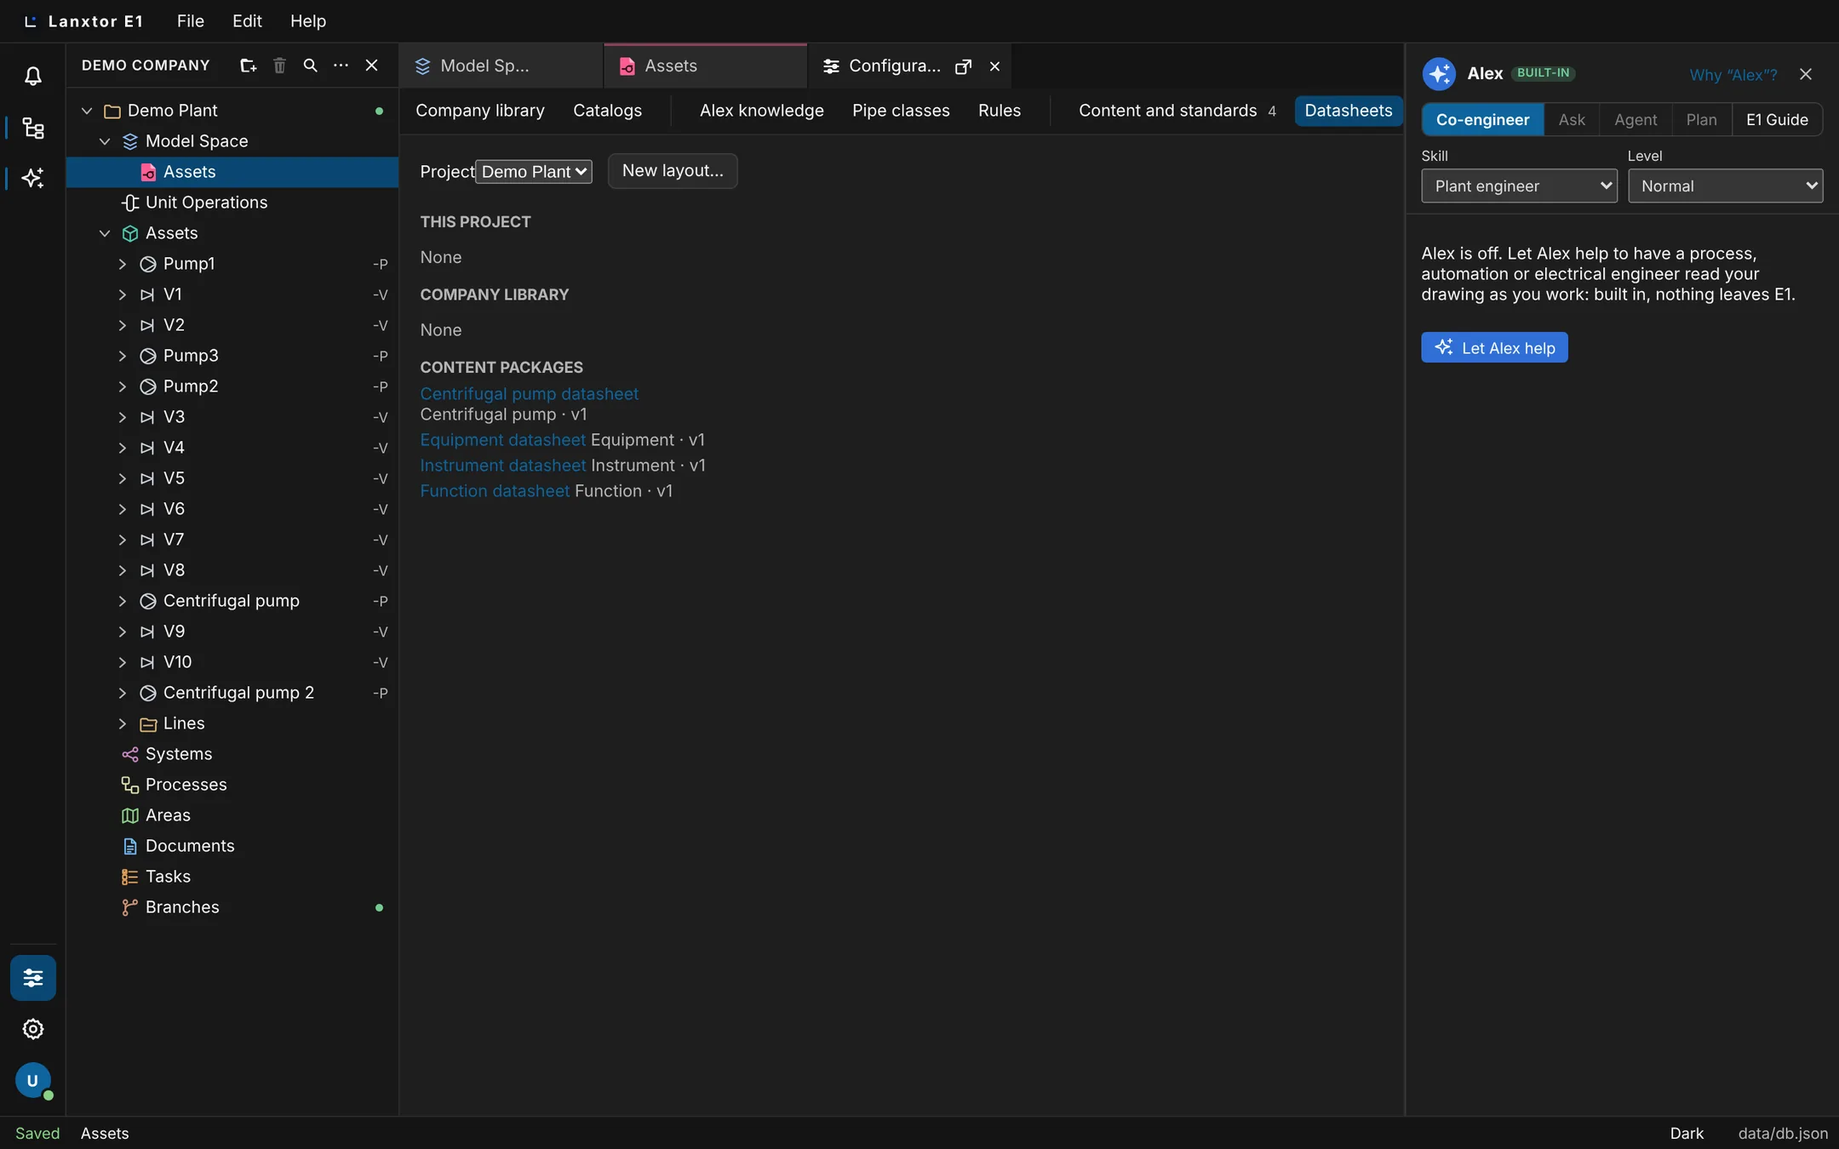
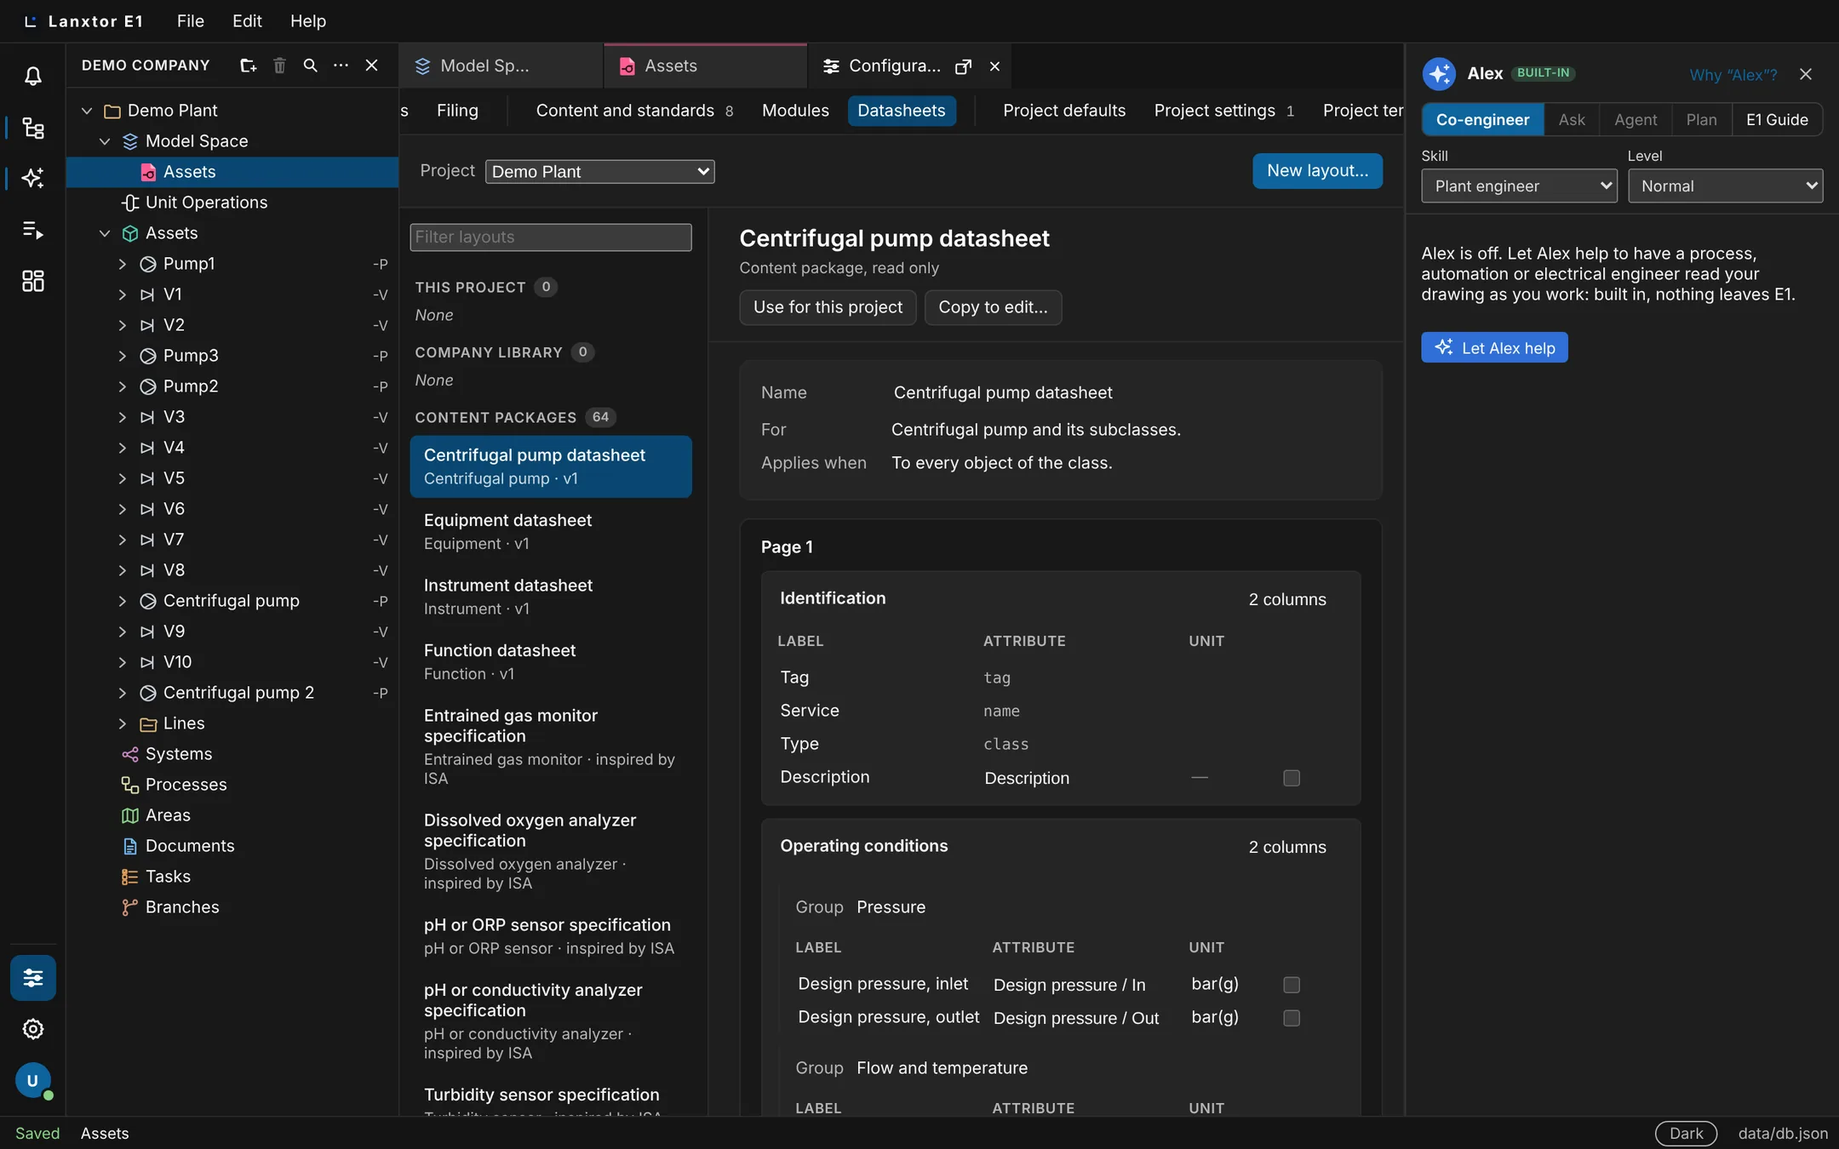
Guides: the redesigned datasheet designer
Claude-Session: https://claude.ai/code/session_011w3qqjSjUdMKk42VAFnWJE

diff --git a/guide-documents.html b/guide-documents.html
@@ -815,11 +815,11 @@
   <div class="g-table-wrap"><table class="g-steps">
     <thead><tr><th>#</th><th>Action</th><th>Expected result</th></tr></thead>
     <tbody>
-      <tr><td>1</td><td>Click <span class="ui">Configuration</span> in the left rail, then <span class="ui">Datasheets</span>.</td><td>Datasheet layouts shows <span class="ui">Project</span>, <span class="ui">New layout…</span>, and the layouts under This project, Company library and Content packages, each with its class and version.</td></tr>
+      <tr><td>1</td><td>Click <span class="ui">Configuration</span> in the left rail, then <span class="ui">Datasheets</span>.</td><td>Datasheet layouts shows <span class="ui">Project</span> and <span class="ui">New layout…</span> at the top, and on the left <span class="ui">Filter layouts</span> and the layouts under This project, Company library and Content packages, each with its count. A layout shows its class and version, and <span class="ui">Draft</span> or <span class="ui">Used here</span> when that applies.</td></tr>
       <tr><td>2</td><td>Click <span class="ui">Centrifugal pump datasheet</span>.</td><td>It reads “Content package, read only”: there is no <span class="ui">Publish</span>, and <span class="ui">Copy to edit…</span> is shown.</td></tr>
-      <tr><td>3</td><td>Click <span class="ui">New layout…</span>, search <code>Centrifugal pump</code>, set Class to <span class="ui">Centrifugal pump</span>, type <code>plant1.pump</code> as the layout key with In <span class="ui">This project</span>, and click <span class="ui">Create from the class</span>.</td><td>The new layout opens: “This project · not published”. A key in use is refused: “That key is taken.”.</td></tr>
+      <tr><td>3</td><td>Click <span class="ui">New layout…</span>. In the dialog, search <code>Centrifugal pump</code>, set Class to <span class="ui">Centrifugal pump</span>, keep Kept in <span class="ui">This project</span>, type <code>plant1.pump</code> as the Key, and click <span class="ui">Create from the class</span>.</td><td>The new layout opens on the right: “This project · not published”. A key in use is refused: “That key is taken.”. <span class="ui">Cancel</span> or <kbd>Esc</kbd> closes the dialog.</td></tr>
       <tr><td>4</td><td>Set <span class="ui">Name</span> to <code>Plant 1 pump datasheet</code>.</td><td>The name shows “For Centrifugal pump and its subclasses.”.</td></tr>
-      <tr><td>5</td><td>In section Identification, choose <span class="ui">Design pressure / In</span> in “Add a field to Identification” and type <code>psi</code> in its unit.</td><td>The field is added with unit psi.</td></tr>
+      <tr><td>5</td><td>In section Identification, choose <span class="ui">Design pressure / In</span> in <span class="ui">Add field…</span> and type <code>psi</code> in its Unit.</td><td>The field is added with unit psi.</td></tr>
       <tr><td>6</td><td>Click <span class="ui">Undo</span>.</td><td>The unit is empty again.</td></tr>
       <tr><td>7</td><td>Click <span class="ui">Save draft</span>.</td><td>“Draft saved.”.</td></tr>
       <tr><td>8</td><td>Click <span class="ui">Publish</span>.</td><td>“Published as version 1.”.</td></tr>
@@ -828,8 +828,8 @@
     </tbody>
   </table></div>
   <h3>What you can change</h3>
-  <p>Pages (<span class="ui">Add page</span>, <span class="ui">Remove page</span>), sections (<span class="ui">Add section</span>, <span class="ui">Columns</span> 1–3, <span class="ui">Up</span>, <span class="ui">Down</span>, <span class="ui">Remove section</span>), groups (<span class="ui">Add group</span>, <span class="ui">Add field to group</span>), tables (<span class="ui">Add table</span>, <span class="ui">Add column</span>), and per field its label, unit, <span class="ui">read only</span> and <span class="ui">Remove</span>. Problems with fields the class lacks are listed under “Binding problems”. <span class="ui">Submit for review</span> says “Submitted for review.”; <span class="ui">Withdraw vN</span> asks “Withdraw version N? Projects pinned to it still read it.” and then says “Version N withdrawn.”; <span class="ui">Use for this project</span> says “This project uses it for the class.”.</p>
-  <figure class="g-shot" style="max-width:1080px"><img src="assets/img/guides/config-datasheets.webp" alt="Configuration → Datasheets: Project Demo Plant, New layout…, This project None, Company library None, and the content package layouts Centrifugal pump, Equipment, Instrument and Function datasheet, each v1." width="2160" height="1350" loading="lazy"><figcaption><span class="ui">Configuration</span> → <span class="ui">Datasheets</span>.</figcaption></figure>
+  <p>Pages (<span class="ui">Add page</span>, <span class="ui">Remove page</span>), sections (<span class="ui">Add section</span>, <span class="ui">Columns</span> 1–3, <span class="ui">Up</span>, <span class="ui">Down</span>, <span class="ui">Remove section</span>), groups (<span class="ui">Add group</span>, <span class="ui">Add field…</span> in the group, <span class="ui">Remove group</span>), tables (<span class="ui">Add table</span>, <span class="ui">Add column</span>), and each field as a row of Label, Attribute, Unit, read only and × to remove it. Problems with fields the class lacks are listed under “Binding problems”. <span class="ui">Submit for review</span> says “Submitted for review.”; <span class="ui">Withdraw vN</span> asks “Withdraw version N? Projects pinned to it still read it.” and then says “Version N withdrawn.”; <span class="ui">Use for this project</span> says “This project uses it for the class.”.</p>
+  <figure class="g-shot" style="max-width:1080px"><img src="assets/img/guides/config-datasheets.webp" alt="Configuration → Datasheets: Project Demo Plant and New layout… at the top; on the left Filter layouts, This project None, Company library None and the content package layouts; on the right Centrifugal pump datasheet, Content package, read only, with its sections and fields." width="2160" height="1350" loading="lazy"><figcaption><span class="ui">Configuration</span> → <span class="ui">Datasheets</span>.</figcaption></figure>
   <p class="g-warn"><kbd>Ctrl+Z</kbd> (<kbd>⌘Z</kbd>) does not undo layout edits: use the designer's <span class="ui">Undo</span> button. Outside a text field, <kbd>Ctrl+Z</kbd> undoes your last saved change to the project instead.</p>
   <p class="g-warn">A layout has no logo or other fixed elements yet. For layouts of components, conditions and comparing a copy with its source, see <a href="#doc-spec-datasheet-designer">Design a specification datasheet</a>.</p>
   <p class="g-related">Related: <a href="guide-documents.html#doc-datasheet">Open an object's datasheet</a>, <a href="guide-documents.html#doc-datasheet-pdf">Datasheet PDF</a>, <a href="guide-library.html#lib-configuration">The Configuration place</a>, <a href="guide-library.html#lib-company-library">The company library</a>, <a href="guide-documents.html#doc-spec-datasheet-designer">Design a specification datasheet</a></p>

diff --git a/tools/guides/src/documents.html b/tools/guides/src/documents.html
@@ -725,11 +725,11 @@
   <div class="g-table-wrap"><table class="g-steps">
     <thead><tr><th>#</th><th>Action</th><th>Expected result</th></tr></thead>
     <tbody>
-      <tr><td>1</td><td>Click <span class="ui">Configuration</span> in the left rail, then <span class="ui">Datasheets</span>.</td><td>Datasheet layouts shows <span class="ui">Project</span>, <span class="ui">New layout…</span>, and the layouts under This project, Company library and Content packages, each with its class and version.</td></tr>
+      <tr><td>1</td><td>Click <span class="ui">Configuration</span> in the left rail, then <span class="ui">Datasheets</span>.</td><td>Datasheet layouts shows <span class="ui">Project</span> and <span class="ui">New layout…</span> at the top, and on the left <span class="ui">Filter layouts</span> and the layouts under This project, Company library and Content packages, each with its count. A layout shows its class and version, and <span class="ui">Draft</span> or <span class="ui">Used here</span> when that applies.</td></tr>
       <tr><td>2</td><td>Click <span class="ui">Centrifugal pump datasheet</span>.</td><td>It reads “Content package, read only”: there is no <span class="ui">Publish</span>, and <span class="ui">Copy to edit…</span> is shown.</td></tr>
-      <tr><td>3</td><td>Click <span class="ui">New layout…</span>, search <code>Centrifugal pump</code>, set Class to <span class="ui">Centrifugal pump</span>, type <code>plant1.pump</code> as the layout key with In <span class="ui">This project</span>, and click <span class="ui">Create from the class</span>.</td><td>The new layout opens: “This project · not published”. A key in use is refused: “That key is taken.”.</td></tr>
+      <tr><td>3</td><td>Click <span class="ui">New layout…</span>. In the dialog, search <code>Centrifugal pump</code>, set Class to <span class="ui">Centrifugal pump</span>, keep Kept in <span class="ui">This project</span>, type <code>plant1.pump</code> as the Key, and click <span class="ui">Create from the class</span>.</td><td>The new layout opens on the right: “This project · not published”. A key in use is refused: “That key is taken.”. <span class="ui">Cancel</span> or <kbd>Esc</kbd> closes the dialog.</td></tr>
       <tr><td>4</td><td>Set <span class="ui">Name</span> to <code>Plant 1 pump datasheet</code>.</td><td>The name shows “For Centrifugal pump and its subclasses.”.</td></tr>
-      <tr><td>5</td><td>In section Identification, choose <span class="ui">Design pressure / In</span> in “Add a field to Identification” and type <code>psi</code> in its unit.</td><td>The field is added with unit psi.</td></tr>
+      <tr><td>5</td><td>In section Identification, choose <span class="ui">Design pressure / In</span> in <span class="ui">Add field…</span> and type <code>psi</code> in its Unit.</td><td>The field is added with unit psi.</td></tr>
       <tr><td>6</td><td>Click <span class="ui">Undo</span>.</td><td>The unit is empty again.</td></tr>
       <tr><td>7</td><td>Click <span class="ui">Save draft</span>.</td><td>“Draft saved.”.</td></tr>
       <tr><td>8</td><td>Click <span class="ui">Publish</span>.</td><td>“Published as version 1.”.</td></tr>
@@ -738,8 +738,8 @@
     </tbody>
   </table></div>
   <h3>What you can change</h3>
-  <p>Pages (<span class="ui">Add page</span>, <span class="ui">Remove page</span>), sections (<span class="ui">Add section</span>, <span class="ui">Columns</span> 1–3, <span class="ui">Up</span>, <span class="ui">Down</span>, <span class="ui">Remove section</span>), groups (<span class="ui">Add group</span>, <span class="ui">Add field to group</span>), tables (<span class="ui">Add table</span>, <span class="ui">Add column</span>), and per field its label, unit, <span class="ui">read only</span> and <span class="ui">Remove</span>. Problems with fields the class lacks are listed under “Binding problems”. <span class="ui">Submit for review</span> says “Submitted for review.”; <span class="ui">Withdraw vN</span> asks “Withdraw version N? Projects pinned to it still read it.” and then says “Version N withdrawn.”; <span class="ui">Use for this project</span> says “This project uses it for the class.”.</p>
-  <figure class="g-shot"><img src="assets/img/guides/config-datasheets.webp" alt="Configuration → Datasheets: Project Demo Plant, New layout…, This project None, Company library None, and the content package layouts Centrifugal pump, Equipment, Instrument and Function datasheet, each v1." width="2160" height="1350" loading="lazy"><figcaption><span class="ui">Configuration</span> → <span class="ui">Datasheets</span>.</figcaption></figure>
+  <p>Pages (<span class="ui">Add page</span>, <span class="ui">Remove page</span>), sections (<span class="ui">Add section</span>, <span class="ui">Columns</span> 1–3, <span class="ui">Up</span>, <span class="ui">Down</span>, <span class="ui">Remove section</span>), groups (<span class="ui">Add group</span>, <span class="ui">Add field…</span> in the group, <span class="ui">Remove group</span>), tables (<span class="ui">Add table</span>, <span class="ui">Add column</span>), and each field as a row of Label, Attribute, Unit, read only and × to remove it. Problems with fields the class lacks are listed under “Binding problems”. <span class="ui">Submit for review</span> says “Submitted for review.”; <span class="ui">Withdraw vN</span> asks “Withdraw version N? Projects pinned to it still read it.” and then says “Version N withdrawn.”; <span class="ui">Use for this project</span> says “This project uses it for the class.”.</p>
+  <figure class="g-shot"><img src="assets/img/guides/config-datasheets.webp" alt="Configuration → Datasheets: Project Demo Plant and New layout… at the top; on the left Filter layouts, This project None, Company library None and the content package layouts; on the right Centrifugal pump datasheet, Content package, read only, with its sections and fields." width="2160" height="1350" loading="lazy"><figcaption><span class="ui">Configuration</span> → <span class="ui">Datasheets</span>.</figcaption></figure>
   <p class="g-warn"><kbd>Ctrl+Z</kbd> (<kbd>⌘Z</kbd>) does not undo layout edits: use the designer's <span class="ui">Undo</span> button. Outside a text field, <kbd>Ctrl+Z</kbd> undoes your last saved change to the project instead.</p>
   <p class="g-warn">A layout has no logo or other fixed elements yet. For layouts of components, conditions and comparing a copy with its source, see <a href="#doc-spec-datasheet-designer">Design a specification datasheet</a>.</p>
   <p class="g-related">Related: <a href="guide-documents.html#doc-datasheet">Open an object's datasheet</a>, <a href="guide-documents.html#doc-datasheet-pdf">Datasheet PDF</a>, <a href="guide-library.html#lib-configuration">The Configuration place</a>, <a href="guide-library.html#lib-company-library">The company library</a>, <a href="guide-documents.html#doc-spec-datasheet-designer">Design a specification datasheet</a></p>

diff --git a/guide-features.html b/guide-features.html
@@ -328,7 +328,7 @@
             <tr data-status="available" data-cat="library"><td class="g-id">LIB-project-settings</td><td><a href="guide-library.html#lib-project-settings">Project settings: packages, drawing and tag rules</a><br><span class="muted">Set a project&#x27;s content packages, crossing-line style and tag rules, for one or several projects at once.</span></td><td>Configuration, library and catalogs</td><td><span class="g-status available">Available</span></td><td class="g-date">2026-11-02</td><td class="g-date">2026-11-09</td><td>M1.3, M1.8</td><td></td><td>Project settings</td></tr>
             <tr data-status="placeholder" data-cat="library"><td class="g-id">LIB-project-defaults</td><td><a href="guide-library.html#lib-project-defaults">Project defaults</a><br><span class="muted">See the settings a new project starts with (read only for now).</span></td><td>Configuration, library and catalogs</td><td><span class="g-status placeholder">Placeholder</span></td><td class="g-date"></td><td class="g-date"></td><td></td><td></td><td>Project defaults</td></tr>
             <tr data-status="available" data-cat="library"><td class="g-id">LIB-alex-knowledge</td><td><a href="guide-library.html#lib-alex-knowledge">Alex knowledge: your company&#x27;s conventions</a><br><span class="muted">Give Alex your company&#x27;s standards, accept the conventions it proposes, and let it learn usual values from your projects.</span></td><td>Configuration, library and catalogs</td><td><span class="g-status available">Available</span></td><td class="g-date">2026-11-06</td><td class="g-date">2026-11-07</td><td></td><td></td><td>Teaching Alex your conventions</td></tr>
-            <tr data-status="available" data-cat="library"><td class="g-id">LIB-datasheets</td><td><a href="guide-library.html#lib-datasheets">Datasheet layouts</a><br><span class="muted">Find the datasheet layouts of the project, the company and the content packages, and open the designer.</span></td><td>Configuration, library and catalogs</td><td><span class="g-status available">Available</span></td><td class="g-date">2026-11-05</td><td class="g-date"></td><td>07.5</td><td></td><td>Where datasheet layouts live</td></tr>
+            <tr data-status="available" data-cat="library"><td class="g-id">LIB-datasheets</td><td><a href="guide-library.html#lib-datasheets">Datasheet layouts</a><br><span class="muted">Find the datasheet layouts of the project, the company and the content packages, and open the designer.</span></td><td>Configuration, library and catalogs</td><td><span class="g-status available">Available</span></td><td class="g-date">2026-11-05</td><td class="g-date">2026-11-12</td><td>07.5</td><td></td><td>Where datasheet layouts live</td></tr>
             <tr data-status="available" data-cat="library"><td class="g-id">LIB-cloud-ai-model</td><td><a href="guide-library.html#lib-cloud-ai-model">The model for Alex’s AI help</a><br><span class="muted">See which model Alex gets help from in your installation, or whether none is set up or it runs locally.</span></td><td>Configuration, library and catalogs</td><td><span class="g-status available">Available</span></td><td class="g-date"></td><td class="g-date">2026-11-09</td><td></td><td></td><td>The model for Alex’s AI help</td></tr>
             <tr data-status="placeholder" data-cat="library"><td class="g-id">LIB-storage</td><td><a href="guide-library.html#lib-storage">Storage</a><br><span class="muted">Where the installation keeps its data (placeholder).</span></td><td>Configuration, library and catalogs</td><td><span class="g-status placeholder">Placeholder</span></td><td class="g-date"></td><td class="g-date"></td><td></td><td></td><td>Storage</td></tr>
             <tr data-status="available" data-cat="library"><td class="g-id">LIB-rules</td><td><a href="guide-library.html#lib-rules">Rules: calculations, check rules and copy rules</a><br><span class="muted">Calculate an attribute from the object&#x27;s own values, its owners, related objects and the project with a rule: compose, map, calculate with units, choose, aggregate, format; published, its values follow their inputs and are never typed. A check rule gives a finding where its condition does not hold. A copy rule copies a value people may still change. Organization rules are made in the company library and reach a project when its library pin moves; content packages bring their own.</span></td><td>Configuration, library and catalogs</td><td><span class="g-status available">Available</span></td><td class="g-date">2026-11-11</td><td class="g-date">2026-11-11</td><td>12.1, 12.2, 12.3, 12.4, 12.5, 12.6</td><td>P1, P2, P3, P4, P6</td><td>Rules in E1</td></tr>

diff --git a/guide-library.html b/guide-library.html
@@ -615,7 +615,7 @@
   <div class="g-table-wrap"><table class="g-steps">
     <thead><tr><th>#</th><th>Action</th><th>Expected result</th></tr></thead>
     <tbody>
-      <tr><td>1</td><td>Click <span class="ui">Datasheets</span>.</td><td>The layouts are shown by tier: This project, Company library, Content packages, with <span class="ui">New layout…</span> and <span class="ui">Copy to edit…</span>.</td></tr>
+      <tr><td>1</td><td>Click <span class="ui">Datasheets</span>.</td><td>On the left, the layouts by tier with their counts: This project, Company library, Content packages; <span class="ui">Filter layouts</span> narrows them. A layout you click opens on the right, with <span class="ui">Copy to edit…</span> for a content package’s. <span class="ui">New layout…</span> is at the top.</td></tr>
     </tbody>
   </table></div>
   <figure class="g-shot" style="max-width:1080px"><img src="assets/img/guides/config-datasheets.webp" alt="Configuration, Datasheets: the datasheet layouts by tier" width="2160" height="1350" loading="lazy"><figcaption>Datasheets.</figcaption></figure>

diff --git a/tools/guides/src/library.html b/tools/guides/src/library.html
@@ -527,7 +527,7 @@
   <div class="g-table-wrap"><table class="g-steps">
     <thead><tr><th>#</th><th>Action</th><th>Expected result</th></tr></thead>
     <tbody>
-      <tr><td>1</td><td>Click <span class="ui">Datasheets</span>.</td><td>The layouts are shown by tier: This project, Company library, Content packages, with <span class="ui">New layout…</span> and <span class="ui">Copy to edit…</span>.</td></tr>
+      <tr><td>1</td><td>Click <span class="ui">Datasheets</span>.</td><td>On the left, the layouts by tier with their counts: This project, Company library, Content packages; <span class="ui">Filter layouts</span> narrows them. A layout you click opens on the right, with <span class="ui">Copy to edit…</span> for a content package’s. <span class="ui">New layout…</span> is at the top.</td></tr>
     </tbody>
   </table></div>
   <figure class="g-shot"><img src="assets/img/guides/config-datasheets.webp" alt="Configuration, Datasheets: the datasheet layouts by tier" width="2160" height="1350" loading="lazy"><figcaption>Datasheets.</figcaption></figure>
